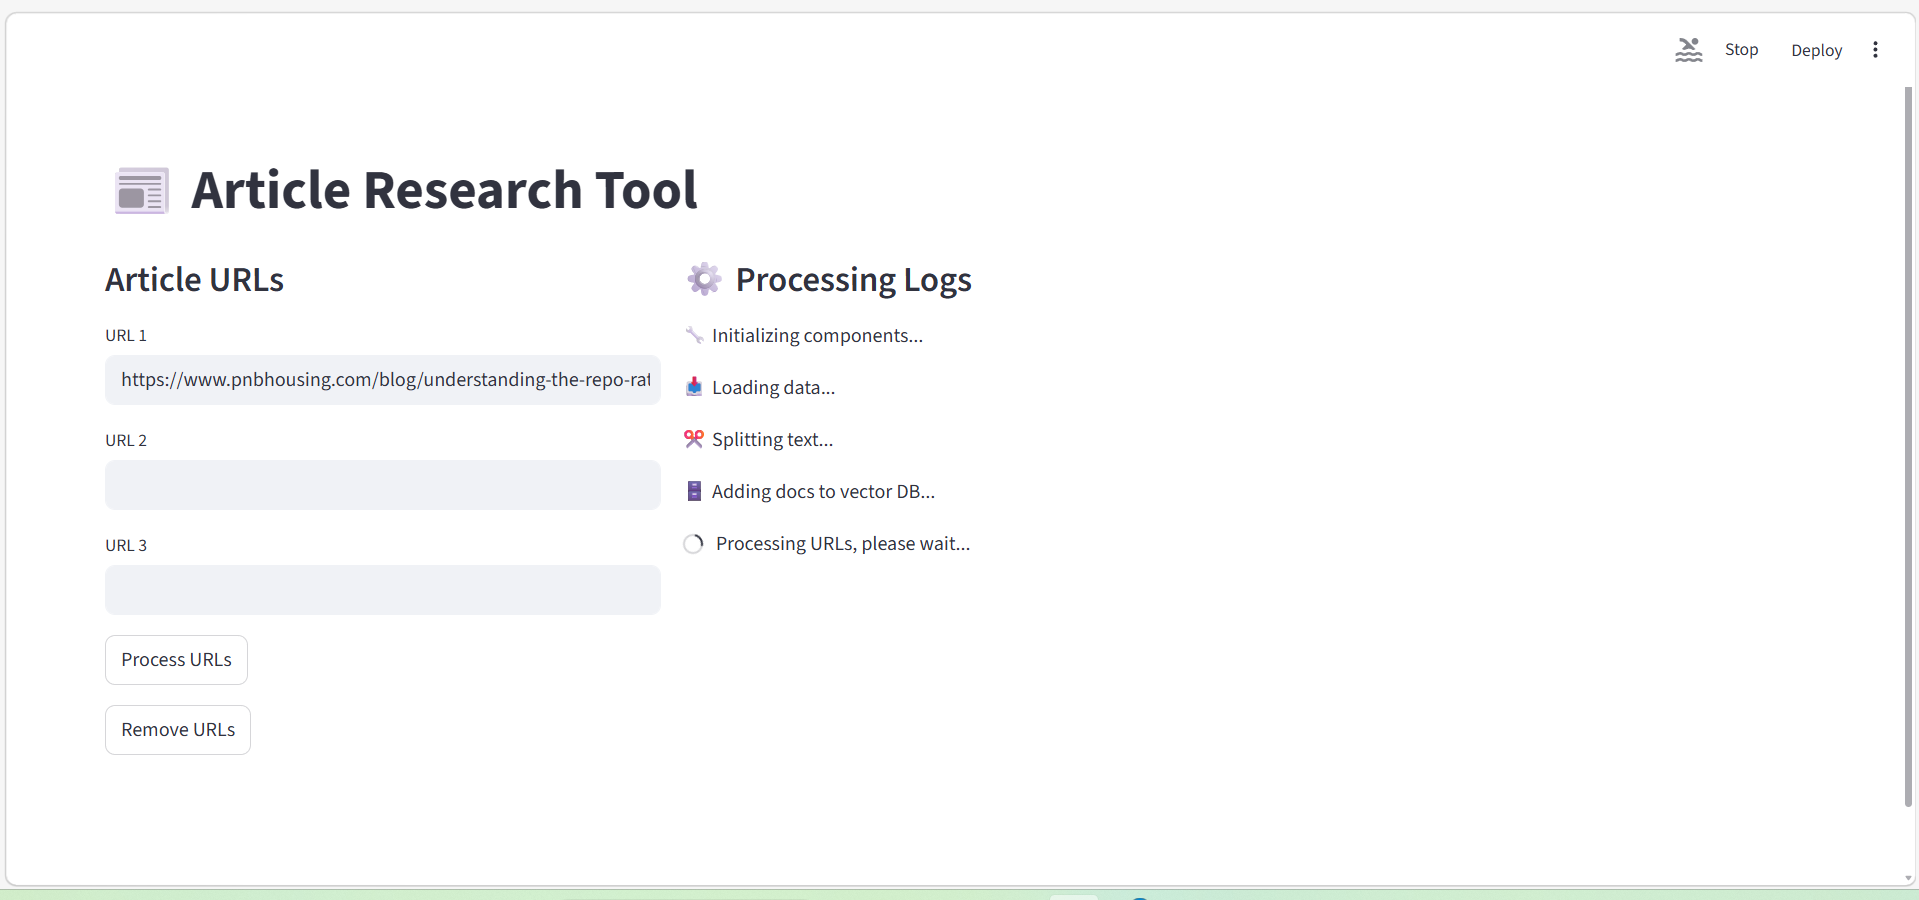
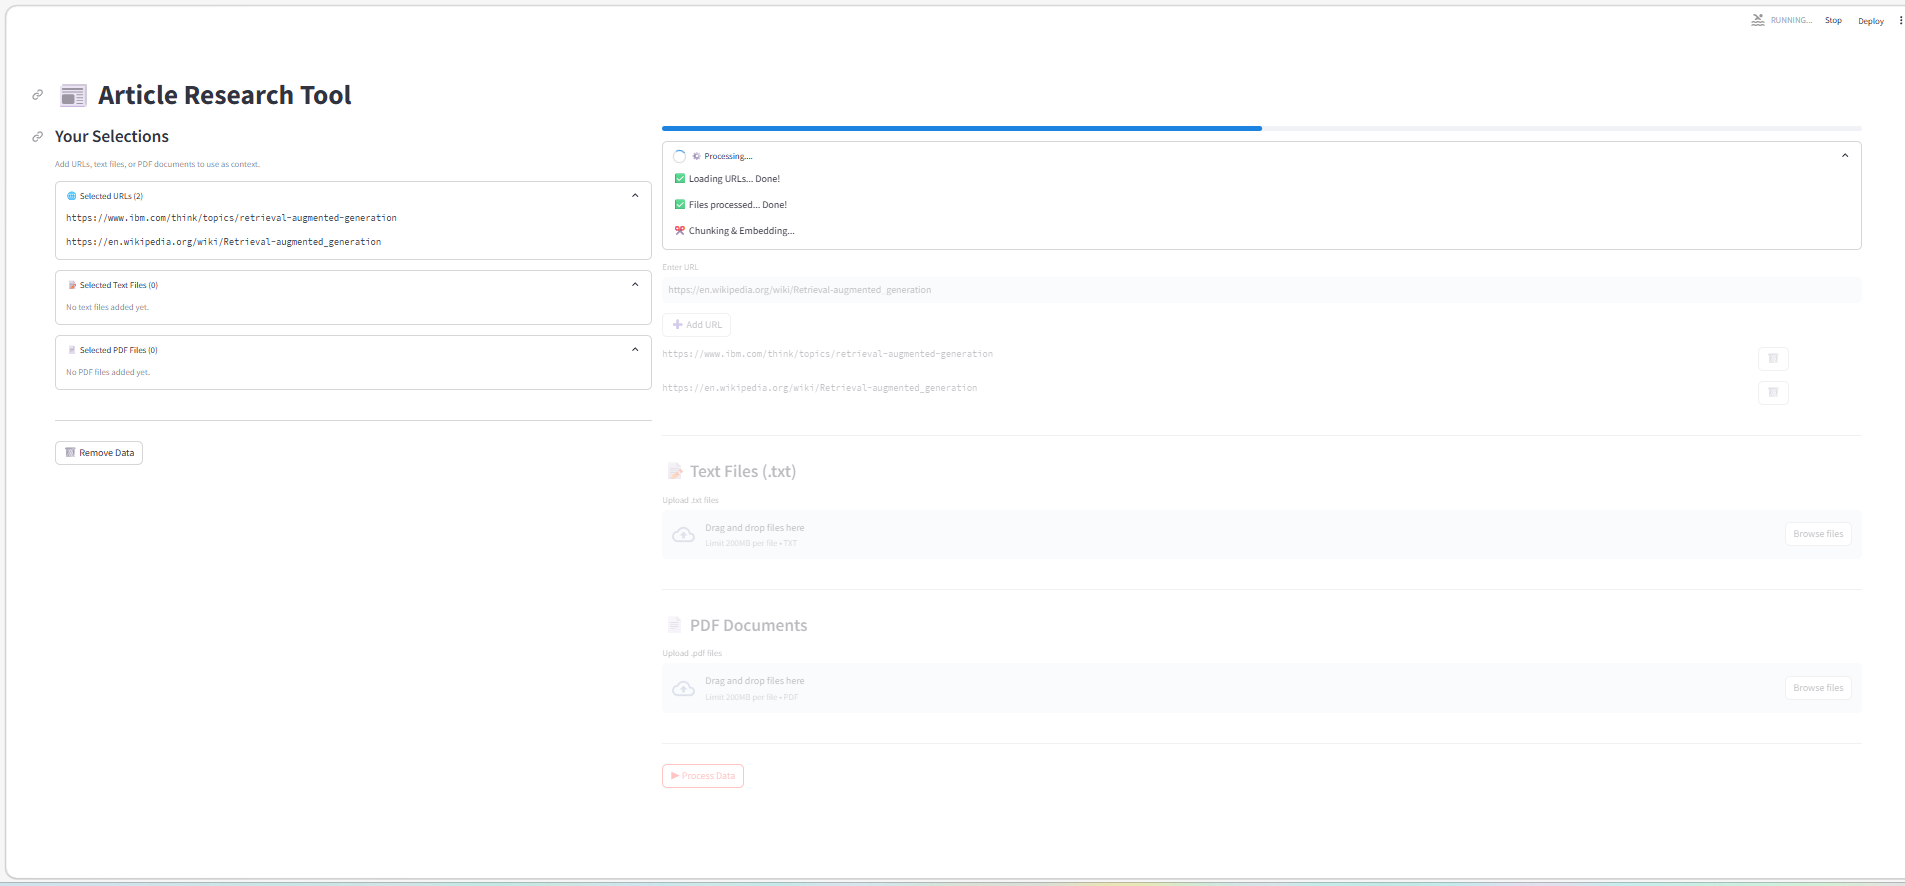
docs: update README with screenshots and new features

diff --git a/README.md b/README.md
@@ -23,6 +23,22 @@ pinned: false
 
 ---
 
+## 📸 Screenshots
+
+### Upload Data
+![Upload UI](images/front_ui.png)
+
+### Processing
+![Processing UI](images/processing_ui.png)
+
+### Single Answer
+![Single Answer](images/single_mode.png)
+
+### Compare Sources
+![Compare Sources](images/compare_mode.png)
+
+---
+
 ## ✨ Features
 
 ### Data Sources
@@ -240,7 +256,7 @@ Resume analysis:
 YouTube research:
 → Add a tutorial video URL
 → Ask specific questions about the content
-→ Get timestamped evidence quotes
+→ Get answer with evidence quotes
 
 Mixed research:
 → Article URL + PDF + YouTube video
